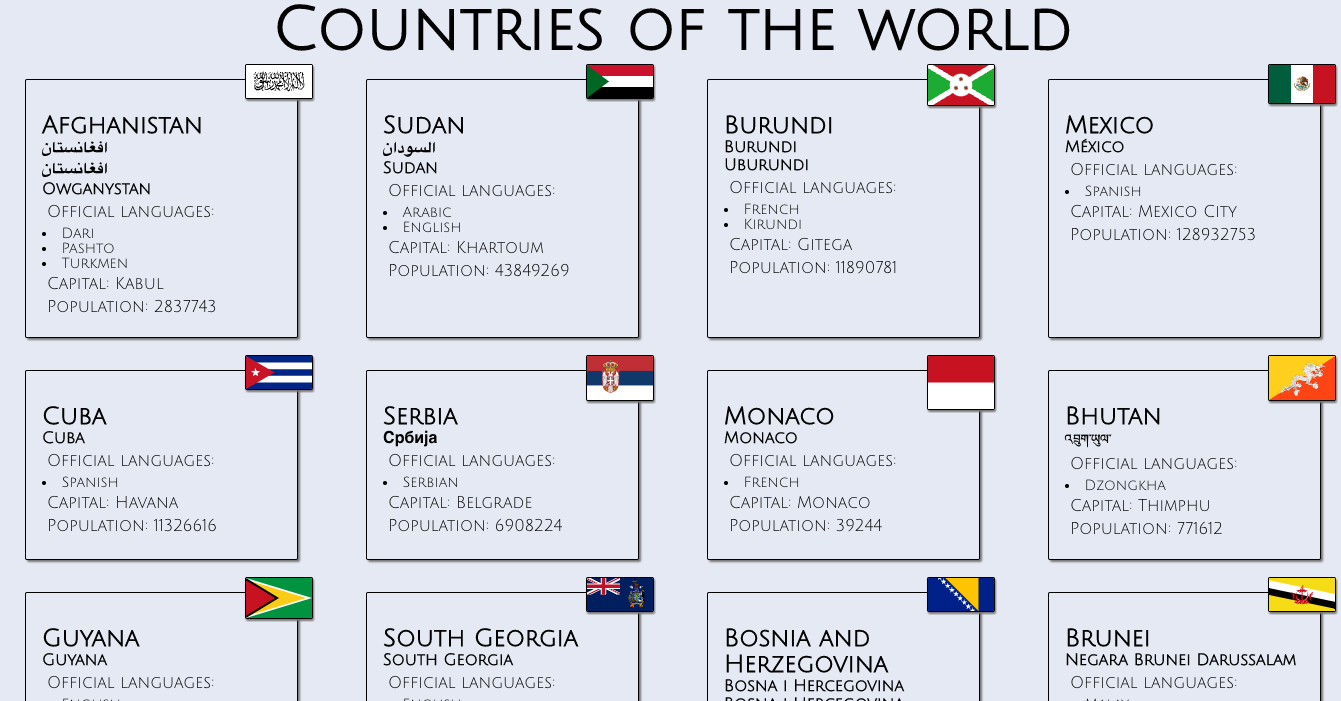
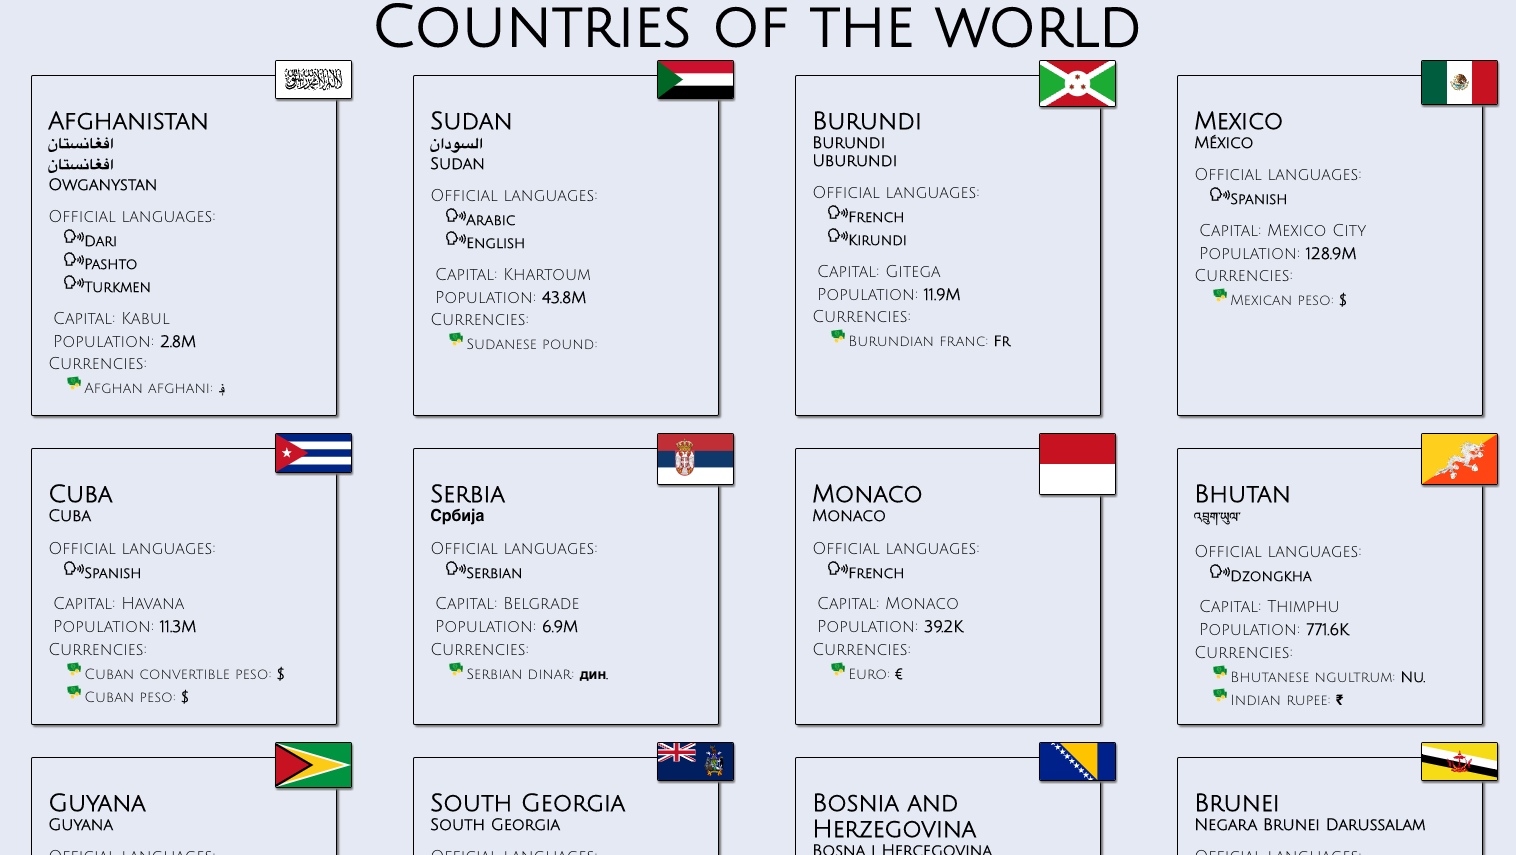
list svg

diff --git a/src/App.js b/src/App.js
@@ -7,12 +7,13 @@ const number = require('easy-number-formatter')
 class App extends Component {
   state = {
     data: [],
+    visited: []
   }
 
   componentDidMount() {
     // https://restcountries.com/v3.1/all will fetch all data
     // but we can specify fields we are interested in:
-    axios.get("https://restcountries.com/v3.1/all?fields=name,flags,languages,capital,population").then((res) => {
+    axios.get("https://restcountries.com/v3.1/all?fields=name,flags,languages,capital,population,currencies").then((res) => {
       this.setState({ data: res.data});
       console.log(this.state.data);
     })
@@ -32,20 +33,29 @@ class App extends Component {
 
               {/* inside item.name we may have the object nativeName with inside an object (here langObjs) */}
               {item.name.nativeName ? Object.entries(item.name.nativeName).map(([code, langsObj]) => {
-                return (<h3 key={code}>{langsObj.common}</h3>)
+                return (<h3 key={code}><span>{langsObj.common}</span></h3>)
               }) : "unknown"}
 
-              <p className="lang_title"> Official languages: </p>
+              <ul className="new_title"> Official languages:
                 {/* languages is an object. To be able to loop, make an array out of an object with Object.entries(yourObject).
               It breaks if there's no object for languages (example: Antarctica) >>> check if item.language exists.
               Alternatively, ise v2 where languages are in an array. You can also fetch only part of data:
               https://restcountries.com/v2/all?fields=name,capital,currencies
  */}
                 {item.languages ? Object.entries(item.languages).map(([code, lang]) => {
-                return (<li key={code}>{lang}</li>)
+                return (<li key={code}><span className="bold">{lang}</span></li>)
               }) : "unknown"}
-              <p>Capital: {item.capital}</p>
-              <p>Population: {number.formatNumber(item.population)}</p>
+              </ul>
+
+
+              <p className="new_title">Capital: {item.capital}</p>
+              <p>Population: <span className="bold">{number.formatNumber(item.population)}</span></p>
+
+              <ul className="currency">Currencies:
+              {item.currencies ? Object.entries(item.currencies).map(([code, currencyObj]) => {
+                return (<li key={code}><span>{currencyObj.name}: </span><span className="bold">{currencyObj.symbol} </span></li>)
+              }) : "unknown"}
+              </ul>
             </div>
           ))}
         </div>

diff --git a/src/App.css b/src/App.css
@@ -43,6 +43,29 @@
   box-shadow: 2px 2px 2px grey;
 }
 
+ul {
+  list-style: none;
+  font-size: 1rem;
+}
+
+.new_title li::before {
+  content: '';
+  display: inline-block;
+  height: 20px;
+  width: 20px;
+  position: relative;
+  background-image: url('assets/lang.svg');
+  background-size: cover;
+}
+
+li {
+  padding-left: 1rem;
+}
+
+svg {
+  font-size: 1rem;
+}
+
 img {
   position: absolute;
   top: -1rem;
@@ -52,6 +75,11 @@ img {
   border: 1px solid black;
   background-size: cover;
   box-shadow: 1px 2px 1px grey;
+}
+
+
+.new_title {
+  margin-top: 0.9rem;
 }
 
 h2 {
@@ -73,4 +101,18 @@ p {
 h3 {
   font-size: 1rem;
   font-family: var(--special-font);
+}
+
+.bold {
+  font-weight: bold;
+}
+
+.currency li::before {
+  content: '';
+  display: inline-block;
+  height: 20px;
+  width: 20px;
+  position: relative;
+  background-image: url('assets/money.svg');
+  background-size: cover;
 }

diff --git a/README.md b/README.md
@@ -21,3 +21,7 @@ Search for a counrty by typing in the input field. A list of matcihng countries 
 
 
 ![screenshot](screenshot.png?raw=true "Screenshot of the single page application")
+
+## Credits:
+- Rest Countries API: https://restcountries.com/
+- money svg: author: https://videoplasty.com/ licence: https://creativecommons.org/licenses/by-sa/4.0/
